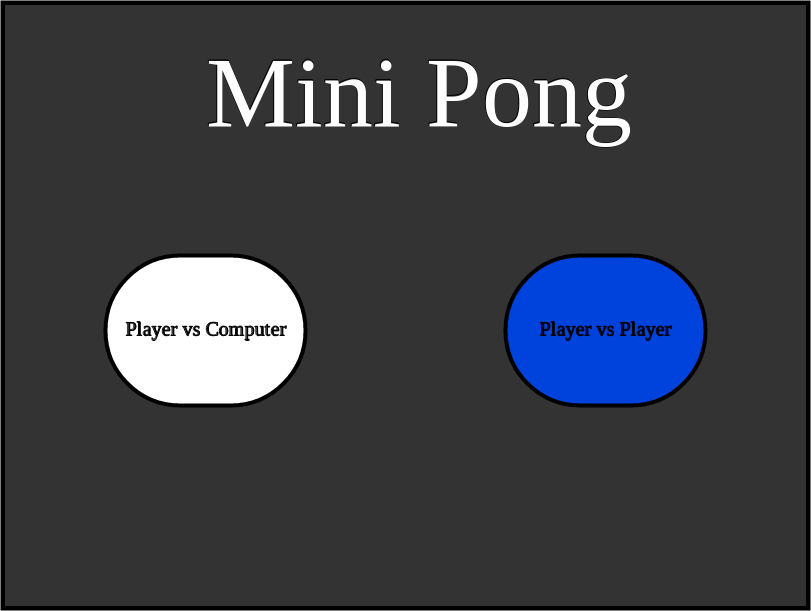
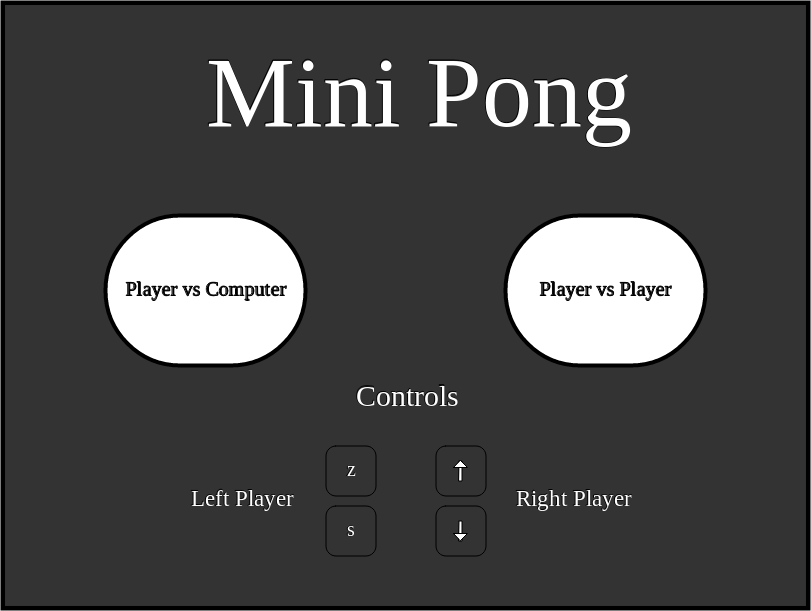
Version 1.1

diff --git a/minipong/menu.js b/minipong/menu.js
@@ -1,6 +1,6 @@
 function Menu() {
-	this.lP = createVector(100, 250);
-	this.rP = createVector(500, 250);
+	this.lP = createVector(100, 210);
+	this.rP = createVector(500, 210);
 	this.buttonSize = createVector(200, 150);
 
 	this.update = function(game) {
@@ -50,5 +50,30 @@ function Menu() {
 		fill(0);
 		text("Player vs Computer", this.lP.x + 20, this.lP.y + 80);
 		text("Player vs Player", this.rP.x + 34, this.rP.y + 80);
+
+		fill(255);
+		textSize(30);
+		text("Controls", wdth/2 - 50, 400);
+		textSize(23);
+		text("Left Player", wdth/2 - 215, 500);
+		text("Right Player", wdth/2 + 110, 500);
+		textSize(20);
+
+		text("z", wdth/2 - 59, 470);
+		text("s", wdth/2 - 59, 530);
+
+		rect(wdth/2 + 53, 455, 3, 20);
+		triangle(wdth/2 + 48, 462, wdth/2 + 62, 462, wdth/2 + 55, 455);
+
+		rect(wdth/2 + 53, 515, 3, 20);
+		triangle(wdth/2 + 48, 528, wdth/2 + 62, 528, wdth/2 + 55, 535);
+
+		var touchSize = 50;
+		noFill();
+		rect(wdth/2 - 30 - touchSize, 440, touchSize, touchSize, 10);
+		rect(wdth/2 - 30 - touchSize, 500, touchSize, touchSize, 10);
+
+		rect(wdth/2 + 30, 440, touchSize, touchSize, 10);
+		rect(wdth/2 + 30, 500, touchSize, touchSize, 10);
 	}
 }

diff --git a/minipong/game.js b/minipong/game.js
@@ -17,6 +17,10 @@ function Game(computer){
 		fill(51);
 		noStroke();
 		rect(0, 0, wdth, hght);
+		stroke(255);
+		line(wdth/2, 0, wdth/2, hght-1);
+		noFill();
+		ellipse(wdth/2, hght/2, 100, 100);
 		stroke(0);
 		fill(255);
 
@@ -51,14 +55,17 @@ function Game(computer){
 		}
 		else{
 			textSize(15);
-			text("Press SPACE to launch the ball", wdth/2 - 106, hght/2 + 50);
+			text("Press SPACE to launch the ball", wdth/2 - 111, hght/2 + 70);
 			textSize(20);
 		}
 
 		this.ball.show();
-
-		text(scoreP1, wdth/2 - 24, 21);
-		text("|", wdth/2, 20);
-		text(scoreP2, wdth/2 + 16, 21);
+		if(scoreP1 > 9){
+			text(scoreP1, wdth/2 - 35, 21);
+		}
+		else{
+			text(scoreP1, wdth/2 - 27, 21);
+		}
+		text(scoreP2, wdth/2 + 13, 21);
 	}
 }
